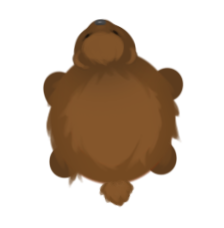
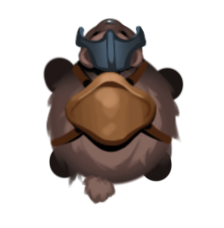
add image and animation for rideablebear; unlock rideablebear

diff --git a/src/services/craftmenuservice.ts b/src/services/craftmenuservice.ts
@@ -574,13 +574,14 @@ export class CraftMenuService extends Service {
                 tooltip: this.getTooltipFor(BuildingType.Mannequin),
                 maxLimit: Config.buildings[BuildingType[BuildingType.Mannequin].toLowerCase()].limit
             },
-            /*
+            
             {
                 img: Assets.Images.ImagesRideablebear.getPNG(),
                 name: BuildingType.RideableBear,
                 tooltip: this.getTooltipFor(BuildingType.RideableBear),
                 maxLimit: Config.buildings[BuildingType[BuildingType.RideableBear].toLowerCase()].limit
             },
+            /*
             {
                 img: Assets.Images.ImagesDarkguard.getPNG(),
                 name: BuildingType.DarkGuardBot,

diff --git a/src/assets.ts b/src/assets.ts
@@ -715,14 +715,6 @@ export namespace Atlases {
         static Frames = AtlasesPigFrames;
     }
     enum AtlasesRideablebearFrames {
-        Hit1 = <any>'hit1.png',
-        Hit2 = <any>'hit2.png',
-        Hit3 = <any>'hit3.png',
-        Hit4 = <any>'hit4.png',
-        Hit5 = <any>'hit5.png',
-        Hit6 = <any>'hit6.png',
-        Hit7 = <any>'hit7.png',
-        Hit8 = <any>'hit8.png',
         Walk1 = <any>'walk1.png',
         Walk2 = <any>'walk2.png',
         Walk3 = <any>'walk3.png',
